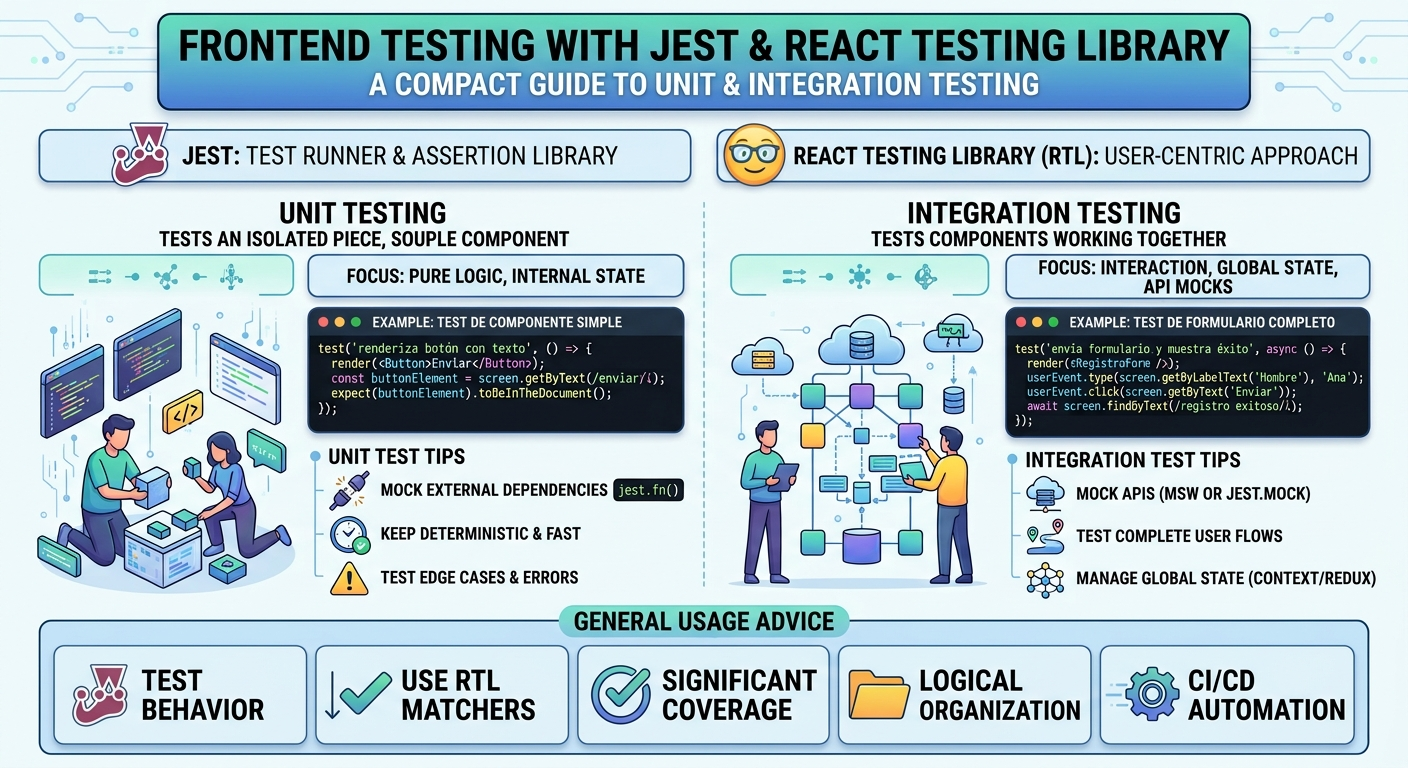
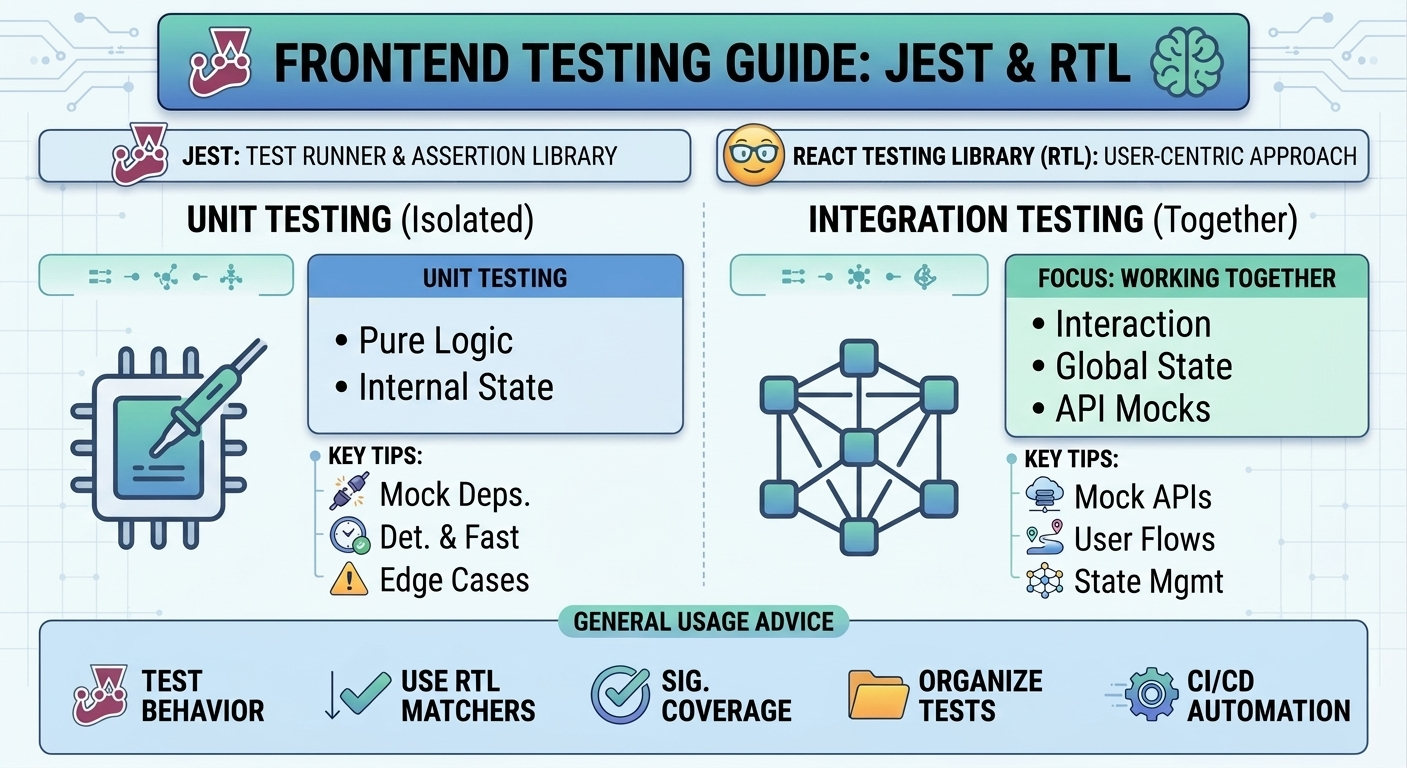
feat: update project data to include new testing playground and adjust project order
- Add new project: Frontend testing playground with Jest and React Testing Library.
- Update project details including stack, links, and bilingual content.
- Change project addition method to prepend new projects for better visibility.

diff --git a/matiasjaque-portfolio/src/data/projects.js b/matiasjaque-portfolio/src/data/projects.js
@@ -1,39 +1,40 @@
-import patientManagement from '../assets/managment-psychology.webp';
+import testingPlayground from '../assets/testing.jpg';
 import realtimeChat from '../assets/realTimeChatDiagram.webp';
 import ecommerceStore from '../assets/e-commerce_store_react.webp';
+import patientManagement from '../assets/managment-psychology.webp';
 
 export const projects = [
   {
-    id: 'patient-management',
-    image: patientManagement,
-    imagePosition: 'top',
+    id: 'testing-playground',
+    image: testingPlayground,
+    imagePosition: 'center',
     imageAlt: {
-      en: 'Login screen of the patient management platform',
-      es: 'Pantalla de inicio de sesión de la plataforma de gestión de pacientes',
+      en: 'Infographic comparing unit and integration testing with Jest and React Testing Library',
+      es: 'Infografía que compara unit e integration testing con Jest y React Testing Library',
     },
-    stack: ['React', 'TypeScript', 'Material UI', 'Node.js', 'MongoDB', 'JWT'],
+    stack: ['React', 'TypeScript', 'Jest', 'React Testing Library', 'Zustand', 'Zod'],
     links: {
-      github: 'https://github.com/matiasjaque-dev/managment-psychology-app',
-      live: 'https://managment-psychology-app.vercel.app/',
+      github: 'https://github.com/matiasjaque-dev/fullstack-engineering-playground',
+      video: 'https://www.loom.com/share/1cc56f345e5f4adfaf1a065787214469',
     },
     title: {
-      en: 'Patient management platform',
-      es: 'Sistema de gestión de pacientes',
+      en: 'Frontend testing playground',
+      es: 'Playground de testing frontend',
     },
     summary: {
-      en: 'Clinical web platform where patients book appointments, psychologists manage their caseload, and admins oversee the system.',
-      es: 'Plataforma clínica donde los pacientes agendan citas, los psicólogos gestionan sus pacientes y los administradores supervisan el sistema.',
+      en: 'Testing suite with Jest and React Testing Library: unit tests for Zustand and Zod, plus integration coverage for a registration form with mocked fetch.',
+      es: 'Suite de testing con Jest y React Testing Library: unit tests de Zustand y Zod, e integración de un formulario de registro con fetch mockeado.',
     },
     highlights: {
       en: [
-        'Role-based authentication for patients, psychologists, and admins',
-        'Dashboard workflows for scheduling and patient follow-up',
-        'REST API with Node.js, MongoDB, and JWT',
+        'Unit tests for global state (Zustand) and schema validation (Zod)',
+        'Integration tests for a full registration form flow with user events',
+        'Native fetch API responses mocked for reliable component testing',
       ],
       es: [
-        'Autenticación por roles para pacientes, psicólogos y administradores',
-        'Flujos de panel para agendamiento y seguimiento de pacientes',
-        'API REST con Node.js, MongoDB y JWT',
+        'Unit tests para estado global (Zustand) y validación de schemas (Zod)',
+        'Tests de integración del flujo completo de un formulario de registro',
+        'Respuestas de la API fetch nativa mockeadas para tests confiables',
       ],
     },
   },
@@ -102,6 +103,40 @@ export const projects = [
         'Carrito y stock persistidos en Firestore',
         'Estado global de UI con Zustand',
         'Vitrina responsive con React, Vite y Tailwind CSS',
+      ],
+    },
+  },
+  {
+    id: 'patient-management',
+    image: patientManagement,
+    imagePosition: 'top',
+    imageAlt: {
+      en: 'Login screen of the patient management platform',
+      es: 'Pantalla de inicio de sesión de la plataforma de gestión de pacientes',
+    },
+    stack: ['React', 'TypeScript', 'Material UI', 'Node.js', 'MongoDB', 'JWT'],
+    links: {
+      github: 'https://github.com/matiasjaque-dev/managment-psychology-app',
+      live: 'https://managment-psychology-app.vercel.app/',
+    },
+    title: {
+      en: 'Patient management platform',
+      es: 'Sistema de gestión de pacientes',
+    },
+    summary: {
+      en: 'Clinical web platform where patients book appointments, psychologists manage their caseload, and admins oversee the system.',
+      es: 'Plataforma clínica donde los pacientes agendan citas, los psicólogos gestionan sus pacientes y los administradores supervisan el sistema.',
+    },
+    highlights: {
+      en: [
+        'Role-based authentication for patients, psychologists, and admins',
+        'Dashboard workflows for scheduling and patient follow-up',
+        'REST API with Node.js, MongoDB, and JWT',
+      ],
+      es: [
+        'Autenticación por roles para pacientes, psicólogos y administradores',
+        'Flujos de panel para agendamiento y seguimiento de pacientes',
+        'API REST con Node.js, MongoDB y JWT',
       ],
     },
   },
